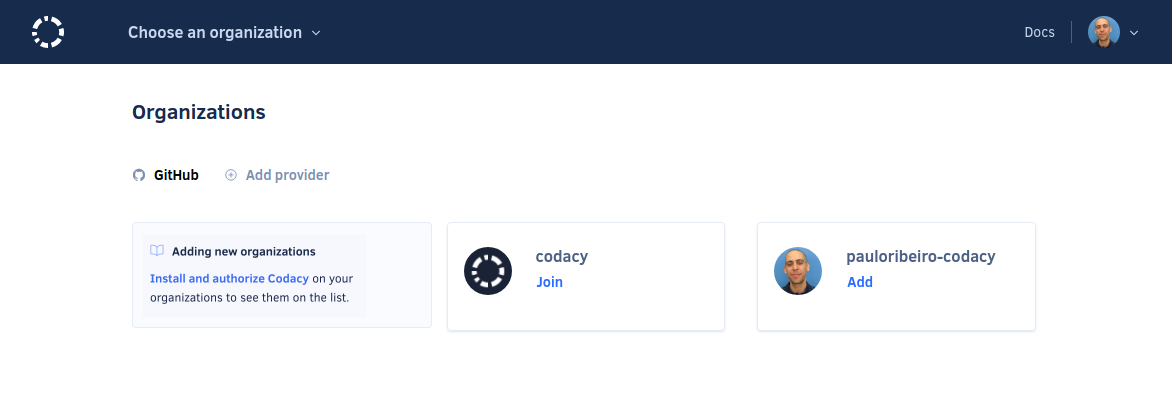
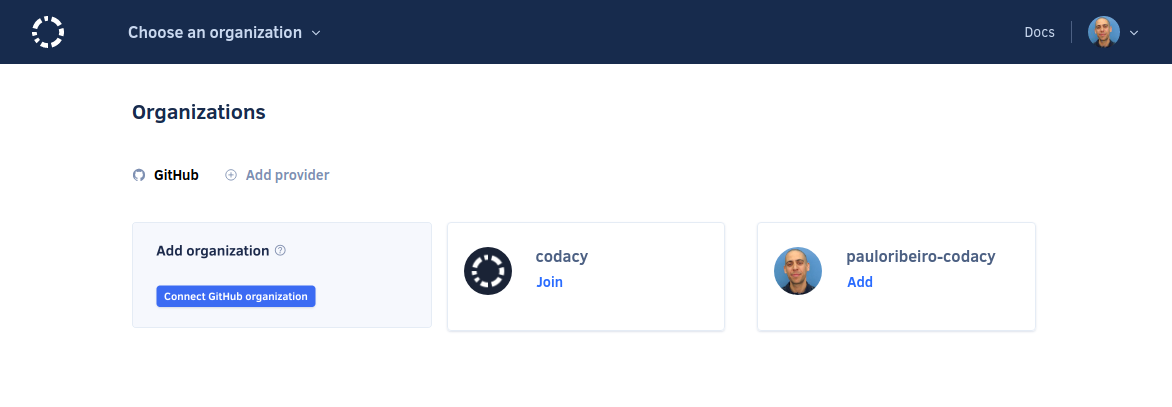
feat: Update screenshots and wording

Changed region(s): [[0.1229, 0.6781, 0.3072, 0.7666], [0.1229, 0.5897, 0.2765, 0.6486]]

diff --git a/docs/organizations/what-are-organizations.md b/docs/organizations/what-are-organizations.md
@@ -19,7 +19,7 @@ This opens the list of organizations on your Git providers. The organization wit
 -   To add organizations from a Git provider not yet listed on this page, click **Add provider** and give the [necessary permissions](../getting-started/which-permissions-does-codacy-need-from-my-account.md) for Codacy to sync with the new Git provider and display your organizations.
 
 !!! note
-    If you can't see the organization you're looking for, follow the instructions in the card **Adding new organizations** or [these troubleshooting instructions](../faq/troubleshooting/why-cant-i-see-my-organization.md).
+    If you can't see the organization you're looking for, [follow these troubleshooting instructions](../faq/troubleshooting/why-cant-i-see-my-organization.md).
 
 ## Updates on the Git provider
 
